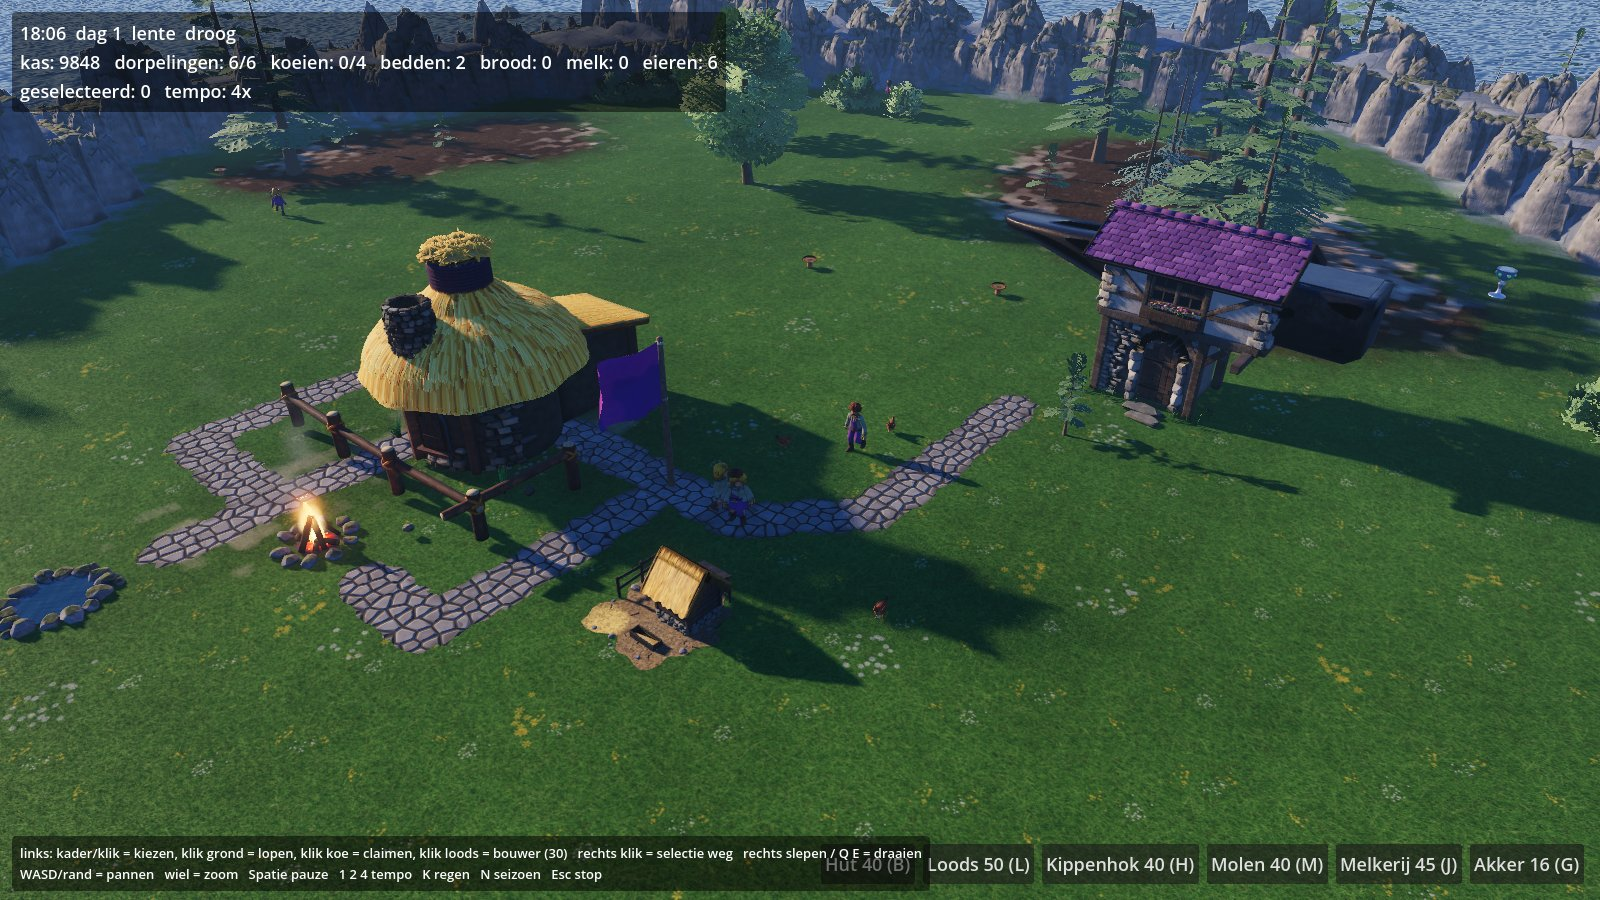
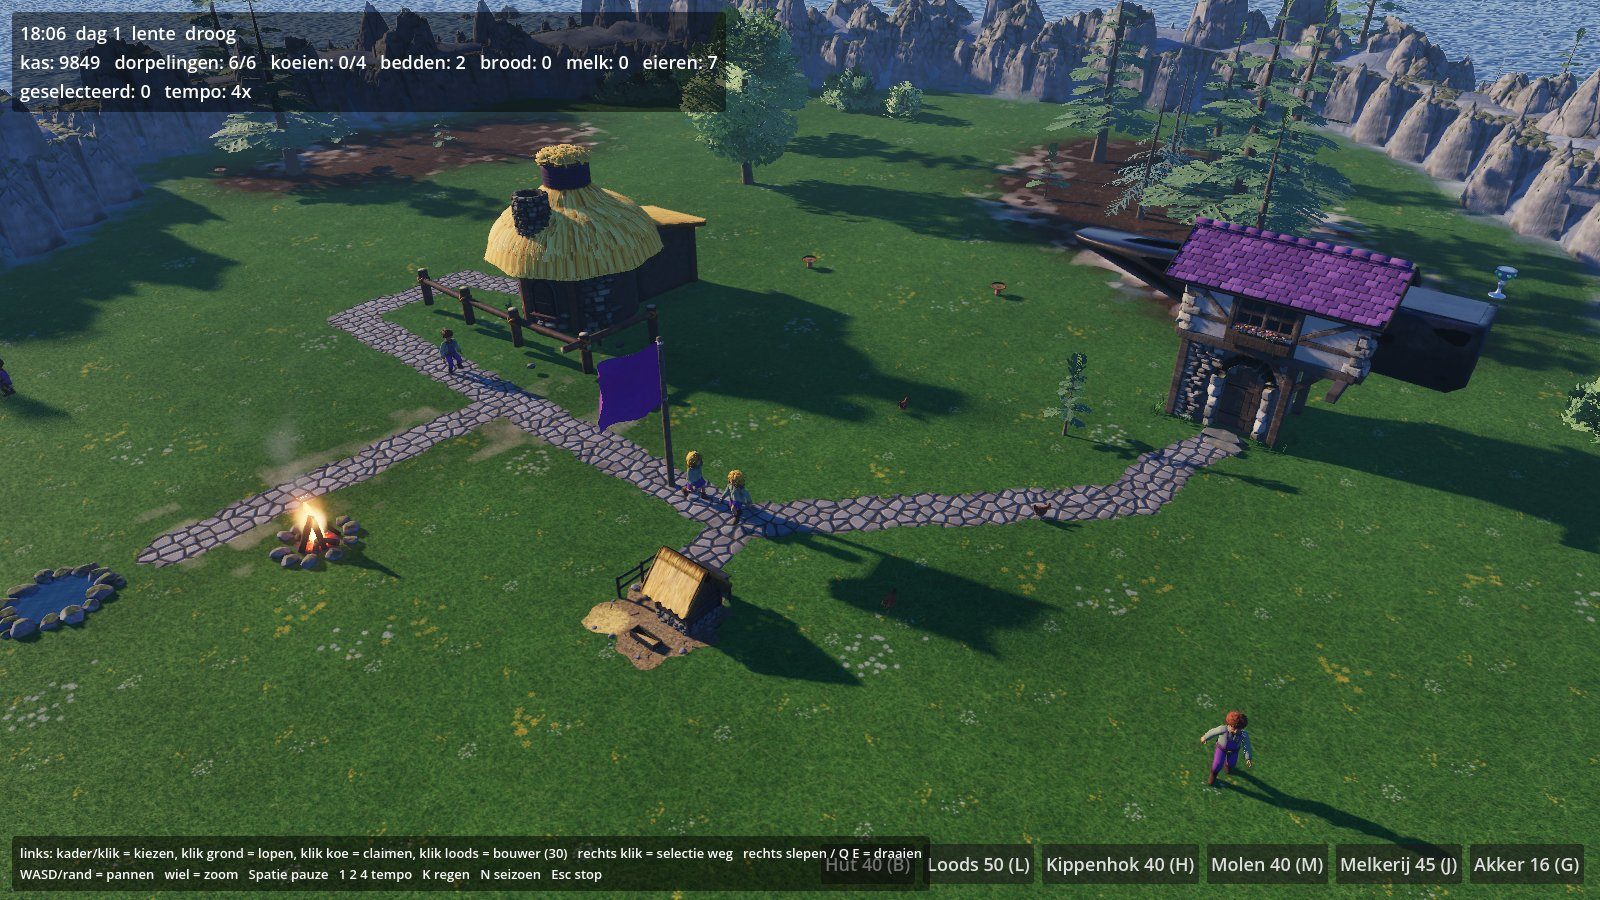
Beasts & Bumpkins-remake: niet op pad bouwen, weg loopt tot de deur
kan_bouwen weigert pad, andermans deurtegel en een eigen deurtegel die niet loopbaar of
bereikbaar is (boompje voor de loodsdeur). Wegen tekent een stoep van de deurtegel tot het
deuranker (Plan.deur_punt); molendeur gecorrigeerd. test/deur_check.gd vergelijkt Plan.DEUREN
met de glb-ankers in vier draaiingen.

Claude-Session: https://claude.ai/code/session_0151pWCWHCzH6TWJgc2h9cMZ

diff --git a/docs/beasts-bumpkins-remake/spel/README.md b/docs/beasts-bumpkins-remake/spel/README.md
@@ -32,7 +32,11 @@ Padtegels (uit de kaart: `road` 1/2/6, plus wat er later bijkomt) worden een kei
 `shaders/weg.gdshader`: procedurele kinderkopjes, rafelrand, sneeuw en nat), van tegelmidden naar tegelmidden; het terrein
 eronder is alleen wat vertrapte grond. Elk afgebouwd gebouw met een deur (`Plan.DEUREN`: hut, molen, melkerij, kippenhok,
 loods) krijgt meteen een weg van zijn deur naar het dichtste pad of het kampvuur (`Wereld.leg_weg`, BFS; beasts-src
-`World.aim` bestelt die weg mee), `weg_per_tegel` (2) kas per nieuwe tegel, zonder bouwtijd.
+`World.aim` bestelt die weg mee), `weg_per_tegel` (2) kas per nieuwe tegel, zonder bouwtijd. De laatste meters, van de
+deurtegel tot de echte deur binnen de voetafdruk, tekent `Wegen` als stoep naar `Plan.deur_punt`.
+Bouwen kan niet op pad (zoals het origineel), niet op andermans deurtegel, en alleen als de eigen deurtegel loopbaar en
+bereikbaar is (een boompje voor de deur liet de weg eerst ernaast uitkomen). `test/deur_check.gd` legt `Plan.DEUREN` naast
+de glb-ankers in alle vier de draaiingen (faalt boven 0,1 m): na een nieuwe gebouw-glb opnieuw draaien.
 
 ## Besturing
 
